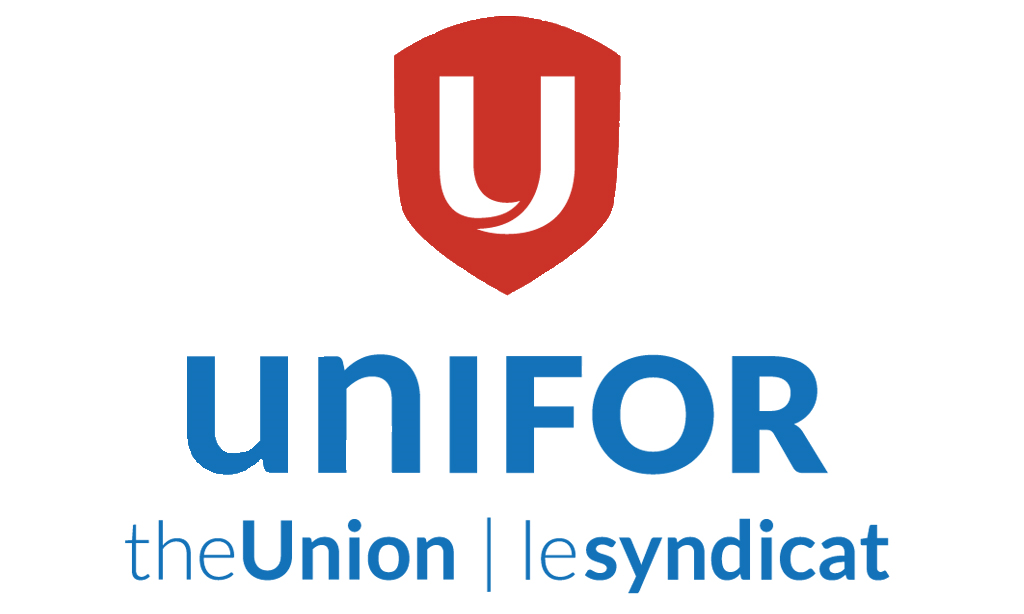
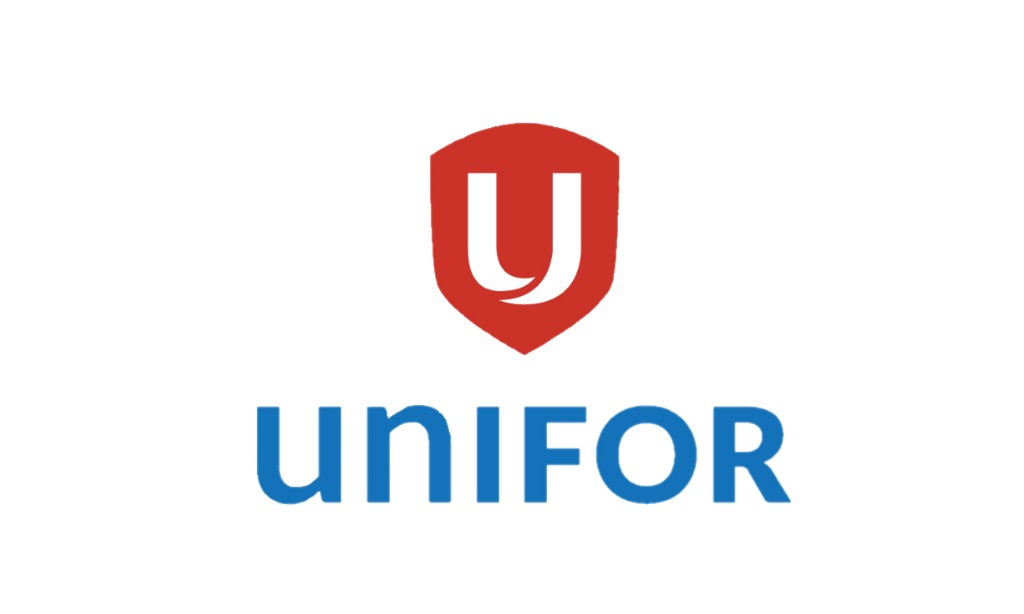
fixing pics

Changed region(s): [[0.125, 0.0, 0.875, 0.9593]]

diff --git a/index.html b/index.html
@@ -450,24 +450,17 @@ Support Workers with Clients    Free
 	<!--Partners-->
 	<div class="container" id="partners">
 	  <h1 class="events">Partners</h1>
-<<<<<<< Updated upstream
-	  <a href="https://www.sandwichteenactiongroup.org/" target="_blank"><img class="partner-pic" src="images/stag.jpg" alt="Sandwich Teen Action Group Logo"></a>
-    <a href="https://www.facebook.com/windsorfarmermarket/" target="_blank"
-      <p style="text-align:center;">West Side Farmers Market</p></a>
-	  <a href="https://mnsi.net/" target="_blank"><img class="partner-pic" src="images/mnsi.png" alt="MSI Logo"></a>
-=======
 	  <a href="https://www.sandwichteenactiongroup.org/" target="_blank"><img class="partner-pic" src="images/stag.png" alt="Sandwich Teen Action Group Logo"></a>
       <p style="text-align:center;">West Side Farmers Market</p>
 	  <a href="https://mnsi.net/" target="_blank"><img class="partner-pic" src="images/mnsi.png" alt="MSI Logo"></a>	
->>>>>>> Stashed changes
 	  <a href="http://www.portwindsor.com/" target="_blank"><img class="partner-pic" src="images/wpa.png" alt="Port Windsor Logo"></a>
 	  <a href="http://www.uwindsor.ca/science/" target="_blank"><img class="partner-pic" src="images/uwinlogo.png" alt="UWindsor Faculty of Science Logo"></a>
 	  <a href="http://www.peo.on.ca/" target="_blank"><img class="partner-pic" src="images/peo.png" alt="Professional Engineers of Ontario Logo"></a>
-	  <a href="https://unifor.org/" target="_blank"><img class="partner-pic" src="images/unifor.jpg" alt="Unifor Logo"></a>
-	  <a href="https://www.greensunrising.com/" target="_blank"><img class="partner-pic" src="images/gsr.jpg" alt="Green Sun Rising Logo"></a>
+	  <a href="https://unifor.org/" target="_blank"><img class="partner-pic" src="images/unifor.png" alt="Unifor Logo"></a>
+	  <a href="https://www.greensunrising.com/" target="_blank"><img class="partner-pic" src="images/gsr.png" alt="Green Sun Rising Logo"></a>
 	  <a href="https://www.capripizza.ca/" target="_blank"><img class="partner-pic" src="images/capri.png" alt="Capri Pizza Logo"></a>
-	  <a href="https://www.long-mcquade.com/" target="_blank"><img class="partner-pic" src="images/landm.jpg" alt="Long & McQuade Logo"></a>
-      <a href="https://www.canada.ca/en/services/jobs/opportunities/student.html" target="_blank"><img class="partner-pic" src="images/ycw.jpg" alt="Young Canada Works Logo"></a>
+	  <a href="https://www.long-mcquade.com/" target="_blank"><img class="partner-pic" src="images/landm.png" alt="Long & McQuade Logo"></a>
+      <a href="https://www.canada.ca/en/services/jobs/opportunities/student.html" target="_blank"><img class="partner-pic" src="images/ycw.png" alt="Young Canada Works Logo"></a>
 	  <a href="https://www.museums.ca/" target="_blank"><img class="partner-pic" src="images/cma_logo.png" alt="Canadian Museums Association Logo"></a>
 	  <a href="https://otf.ca/" target="_blank"><img class="partner-pic" src="images/otf_logo.png" alt="Ontario Trillium Foundation Logo"></a>
 	</div>
